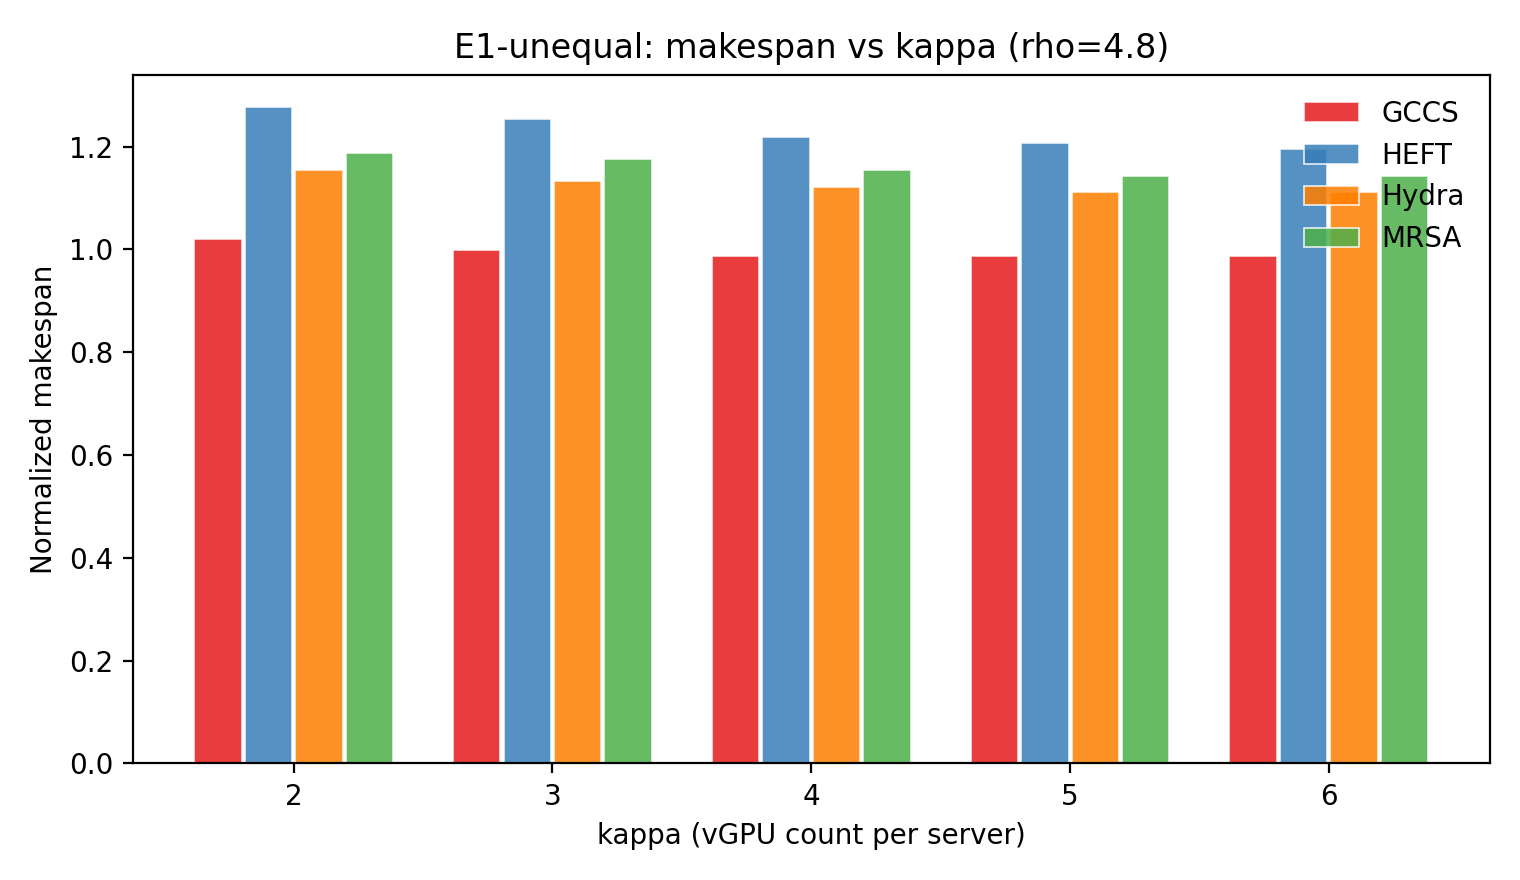
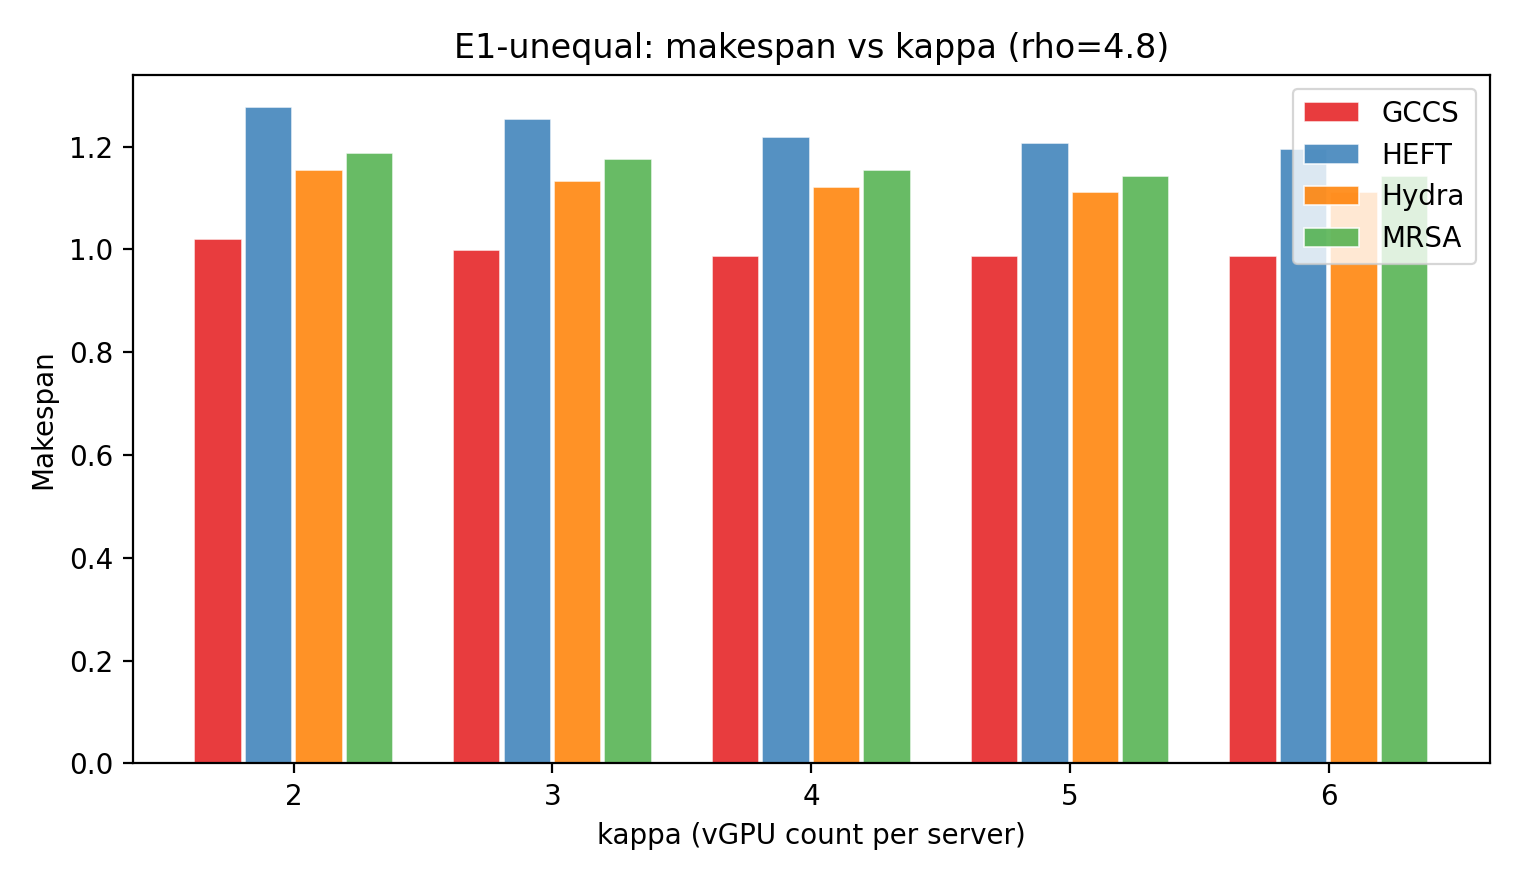
init：画图一改，目前效果不是很理想

Changed region(s): [[0.8349, 0.1534, 0.9586, 0.3068], [0.0, 0.3068, 0.0309, 0.6443]]

diff --git a/output/draw.py b/output/draw.py
@@ -9,12 +9,20 @@ import matplotlib.pyplot as plt
 # ================== settings ==================
 OUT_DIR = Path("./figs")
 OUT_DIR.mkdir(parents=True, exist_ok=True)
+# —— 基准线配置（不做归一化）——
+# 基准线两种模式： "method" 用某个方法的曲线作为参考；"constant" 用常数水平线
+BASELINE_MODE     = "method"        # "method" 或 "constant"
+BASELINE_METHOD   = "GCCS"          # 当 BASELINE_MODE="method" 时，参考的方法名
+BASELINE_CONST_Y  = 300.0           # 当 BASELINE_MODE="constant" 时，水平线的 y 值（示例）
+# === E1 图样式开关： "bar" 或 "line" ===
+E1_STYLE = "bar"   # 想用折线就改成 "line"
+
 
 from pathlib import Path
 
 DATA_DIR = Path("data_gen")
 # CSV_E1_EQUAL = DATA_DIR / "e1_equal.csv"
-CSV_E1_EQUAL = "./data_bk/base_ex.csv"
+CSV_E1_EQUAL = "./data/result.csv"
 CSV_E1_UNEQUAL = DATA_DIR / "e1_unequal.csv"
 CSV_E2 = DATA_DIR / "e2_heterogeneity.csv"
 CSV_E3 = DATA_DIR / "e3_balanced_longtail.csv"
@@ -88,26 +96,59 @@ def grouped_bar(ax, x_labels, series_dict, title, xlabel, ylabel):
     ax.legend(frameon=False)
 
 def plot_e1_for_rho(df, rho, tag):
-    df_r = df[df["rho"]==rho]
+    df_r = df[df["rho"] == rho].copy()
     kappas = sorted(df_r["kappa"].unique())
     methods = _ordered_methods(sorted(df_r["method"].unique()))
-    series = {
-        m: [df_r[(df_r["method"]==m) & (df_r["kappa"]==k)]["makespan"].values[0] for k in kappas]
-        for m in methods
-    }
-    fig, ax = plt.subplots(figsize=(7.6,4.4))
-    grouped_bar(
-        ax,
-        [str(k) for k in kappas],
-        series,
-        title=f"E1-{tag}: makespan vs kappa (rho={rho})",
-        xlabel="kappa (vGPU count per server)",
-        ylabel="Normalized makespan",
-    )
+
+    if E1_STYLE == "line":
+        # —— 折线图 ——（点白边、y 轴虚线网格、图例带框）
+        fig, ax = plt.subplots(figsize=(7.6, 4.4))
+        for m in methods:
+            d = df_r[df_r["method"] == m].sort_values("kappa")
+            ax.plot(
+                d["kappa"].values,
+                d["makespan"].values,
+                marker="o",
+                label=m,
+                color=COLORS.get(m, None),
+                linewidth=2,
+                alpha=(LINE_ALPHA if USE_ALPHA else 1.0),
+                markeredgecolor="white",
+                markeredgewidth=0.8,
+            )
+        ax.set_xticks(kappas)
+        ax.grid(True, axis="y", linestyle=":", linewidth=0.8, alpha=0.7)
+
+    else:
+        # —— 柱状图 ——（留白缝、白描边，与你当前 grouped_bar 风格一致）
+        series = {
+            m: [df_r[(df_r["method"] == m) & (df_r["kappa"] == k)]["makespan"].values[0]
+                for k in kappas]
+            for m in methods
+        }
+        fig, ax = plt.subplots(figsize=(7.6, 4.4))
+        grouped_bar(
+            ax,
+            [str(k) for k in kappas],
+            series,
+            title="",  # 标题下面统一设置
+            xlabel="",
+            ylabel="",
+        )
+
+    ax.set_title(f"E1-{tag}: makespan vs kappa (rho={rho})")
+    ax.set_xlabel("kappa (vGPU count per server)")
+    ax.set_ylabel("Makespan")
+
+    # 图例带框
+    leg = ax.legend(frameon=True)
+    leg.get_frame().set_linewidth(0.8)
+
     out = OUT_DIR / f"fig_E1_{tag}_rho{str(rho).replace('.','_')}.png"
     fig.tight_layout()
     fig.savefig(out, dpi=200)
     plt.close(fig)
+
 
 def plot_e2(field, title, filename, df):
     fig, ax = plt.subplots(figsize=(7.6,4.4))

diff --git a/sweep_main.py b/sweep_main.py
@@ -10,7 +10,7 @@ def main():
     R = common.workload_ratio_R(seg)
 
     rho_list = ["0.5R", "1R", "2R", "4R"]  # 也可换成具体数字或混用
-    kappas   = [2, 3, 4, 5, 6]
+    kappas   = [1, 2, 4, 8]
     SEED     = 2025
 
     HEFT_EXTRA_COMM_S = 0.04
@@ -33,8 +33,8 @@ def main():
                 rows.append(row)
 
     out = Path("./output/data"); out.mkdir(parents=True, exist_ok=True)
-    pd.DataFrame(rows)[["rho","kappa","method","makespan"]].to_csv(out/"base_ex.csv", index=False)
-    print(f"Saved -> {out/'base_ex.csv'}")
+    pd.DataFrame(rows)[["rho","kappa","method","makespan"]].to_csv(out/"result.csv", index=False)
+    print(f"Saved -> {out/'result.csv'}")
 
 if __name__ == "__main__":
     main()

diff --git a/main.py b/main.py
@@ -31,8 +31,8 @@ def main():
         rows.append(row)
 
     # out = Path("./output/data"); out.mkdir(parents=True, exist_ok=True)
-    # pd.DataFrame(rows)[["rho","kappa","method","makespan"]].to_csv(out/"base_ex.csv", index=False)
-    # print(f"Saved -> {out/'base_ex.csv'}")
+    # pd.DataFrame(rows)[["rho","kappa","method","makespan"]].to_csv(out/"result.csv", index=False)
+    # print(f"Saved -> {out/'result.csv'}")
 
 if __name__ == "__main__":
     main()
